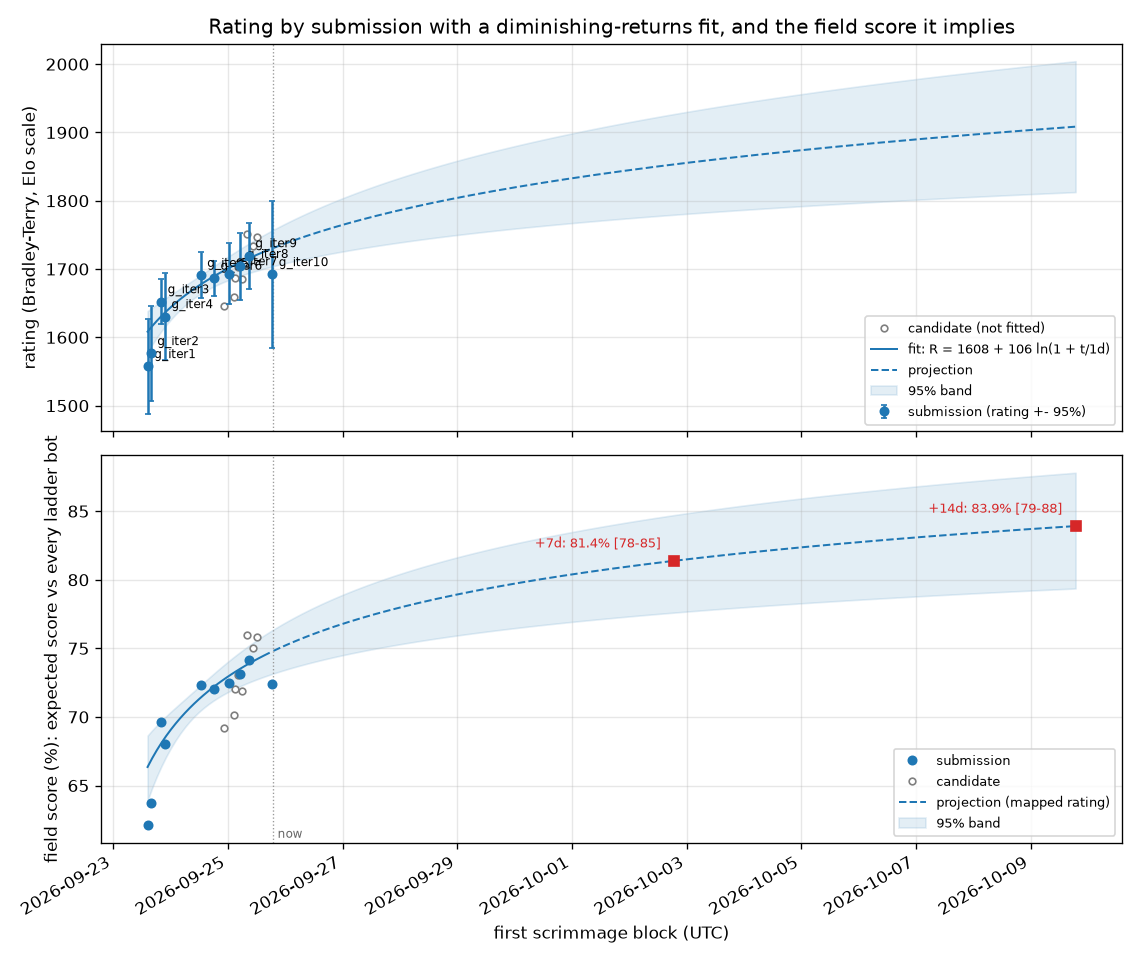
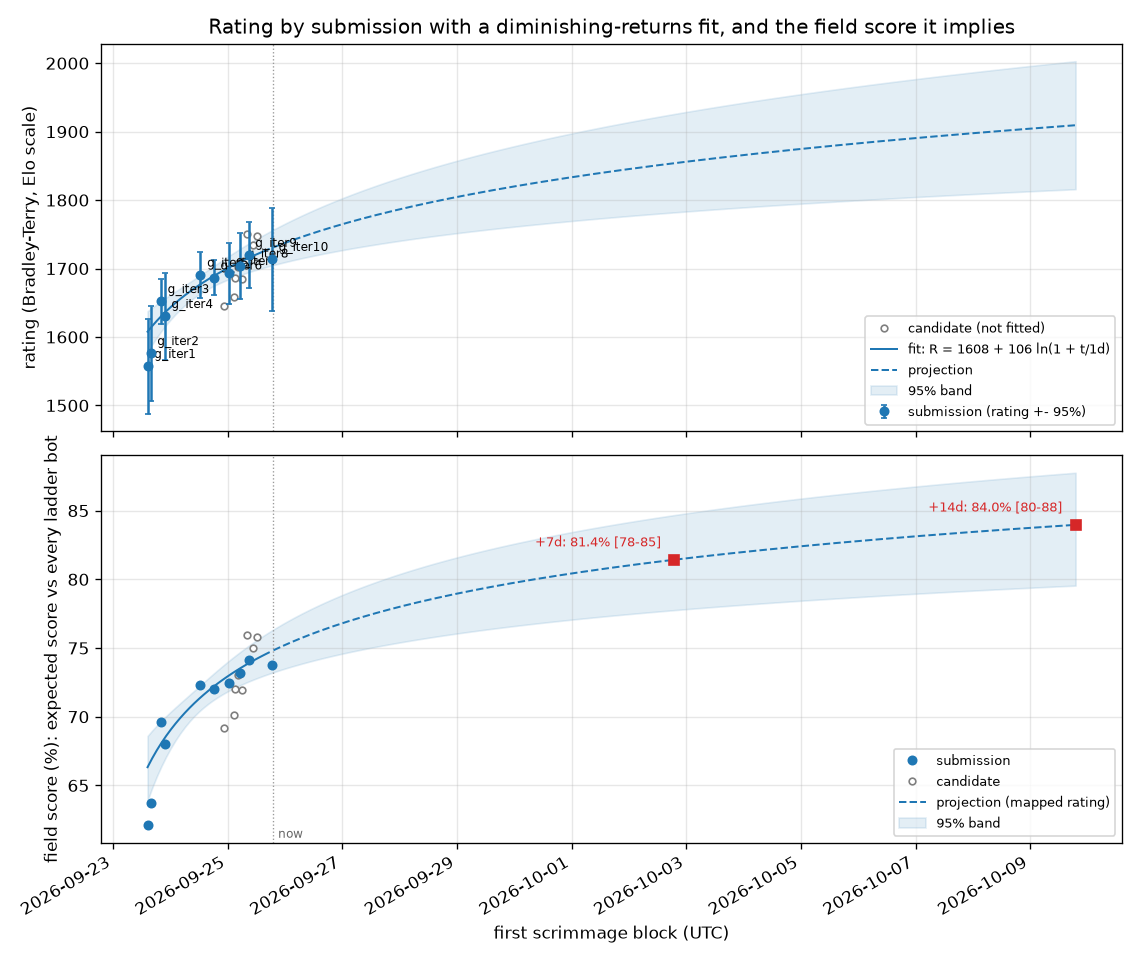
Submission block 20260925-183928-scrim-g_iter10 posted (g_iter10)
Claude-Session: https://claude.ai/code/session_015tNyF5ucwWW1mudpEQTT25

diff --git a/progress/ONSET.md b/progress/ONSET.md
@@ -1,6 +1,6 @@
 # Which metric starts predicting the result first
 
-43 games, 15 wins. Noise floor about 0.30; a correlation inside that band is not evidence.
+45 games, 20 wins. Noise floor about 0.30; a correlation inside that band is not evidence.
 
 Every metric is oriented so **higher is better for us**, so a positive correlation always means
 "this being better goes with winning". `~avg` is the running mean over all rounds so far rather than
@@ -12,46 +12,46 @@ See `progress/METRICS.md` for how each quantity is computed.
 
 | onset | anti | metric | peak corr | r100 | r200 | r300 | r400 | r600 | r900 |
 |---|---|---|---|---|---|---|---|---|---|
-| r50 | - | miners (us-them) | +0.41 | +0.29 | +0.31 | +0.31 | +0.20 | +0.32 | +0.39 |
-| r50 | - | miners (us-them) ~avg | +0.41 | +0.39 | +0.36 | +0.40 | +0.36 | +0.36 | +0.38 |
-| r50 | - | mines (us-them) | +0.59 | +0.59 | +0.56 | +0.46 | +0.44 | +0.51 | +0.52 |
-| r50 | - | mines (us-them) ~avg | +0.57 | +0.56 | +0.57 | +0.54 | +0.50 | +0.52 | +0.53 |
-| r50 | - | robots (us-them) | +0.62 | +0.49 | +0.46 | +0.38 | +0.41 | +0.60 | +0.52 |
-| r50 | - | robots (us-them) ~avg | +0.61 | +0.51 | +0.51 | +0.48 | +0.45 | +0.57 | +0.60 |
-| r50 | - | spawned (us-them) | +0.63 | +0.49 | +0.47 | +0.43 | +0.43 | +0.62 | +0.56 |
-| r50 | - | spawned (us-them) ~avg | +0.63 | +0.51 | +0.52 | +0.50 | +0.48 | +0.59 | +0.63 |
-| r50 | - | units (us-them) | +0.65 | +0.38 | +0.35 | +0.27 | +0.28 | +0.53 | +0.58 |
-| r50 | - | units (us-them) ~avg | +0.63 | +0.43 | +0.42 | +0.36 | +0.32 | +0.47 | +0.63 |
-| r50 | - | worth (us-them) | +0.56 | +0.55 | +0.54 | +0.46 | +0.46 | +0.55 | +0.43 |
-| r50 | - | worth (us-them) ~avg | +0.57 | +0.53 | +0.57 | +0.53 | +0.50 | +0.54 | +0.51 |
-| r100 | - | drones (us-them) ~avg | +0.34 | +0.31 | +0.34 | +0.31 | +0.28 | +0.25 | +0.27 |
-| r150 | - | pickups (us-them) ~avg | +0.39 | +0.19 | +0.32 | +0.35 | +0.37 | +0.35 | +0.39 |
-| r200 | - | drones (us-them) | +0.31 | +0.29 | +0.31 | +0.26 | +0.19 | +0.13 | +0.29 |
-| r250 | - | moves (us-them) | +0.42 | -0.12 | +0.17 | +0.37 | +0.33 | +0.40 | +0.42 |
-| r250 | - | pickups (us-them) | +0.37 | +0.19 | +0.29 | +0.37 | +0.37 | +0.29 | +0.37 |
-| r350 | - | moves (us-them) ~avg | +0.42 | -0.17 | +0.07 | +0.29 | +0.33 | +0.35 | +0.41 |
-| r350 | - | vaporators (us-them) | +0.45 | +0.23 | +0.19 | +0.28 | +0.32 | +0.45 | +0.30 |
-| r450 | - | landscapers (us-them) | +0.60 | +0.09 | +0.17 | +0.10 | +0.21 | +0.47 | +0.59 |
-| r450 | - | vaporators (us-them) ~avg | +0.42 | +0.23 | +0.16 | +0.23 | +0.28 | +0.41 | +0.36 |
-| r500 | - | cov (us-them) | +0.38 | -0.23 | -0.01 | +0.23 | +0.25 | +0.37 | +0.34 |
-| r500 | - | cov (us-them) ~avg | +0.38 | -0.22 | -0.10 | +0.05 | +0.14 | +0.38 | +0.36 |
-| r550 | - | netguns (us-them) | +0.39 | . | +0.11 | +0.22 | +0.26 | +0.39 | +0.32 |
-| r550 | - | netguns (us-them) ~avg | +0.38 | . | +0.11 | +0.18 | +0.24 | +0.35 | +0.36 |
-| r600 | - | landscapers (us-them) ~avg | +0.62 | +0.09 | +0.20 | +0.12 | +0.15 | +0.34 | +0.61 |
-| r700 | - | digs (us-them) | +0.57 | +0.22 | +0.19 | +0.09 | +0.08 | +0.19 | +0.47 |
-| r700 | - | dirtDeps (us-them) | +0.56 | +0.18 | +0.13 | +0.06 | +0.05 | +0.17 | +0.45 |
-| r800 | - | digs (us-them) ~avg | +0.49 | +0.22 | +0.21 | +0.11 | +0.09 | +0.12 | +0.37 |
-| r850 | - | dirtDeps (us-them) ~avg | +0.47 | +0.18 | +0.15 | +0.06 | +0.05 | +0.09 | +0.34 |
-| - | - | aba (us-them) [inverted] | +0.26 | +0.15 | +0.17 | +0.03 | +0.18 | +0.16 | +0.03 |
-| - | - | aba (us-them) [inverted] ~avg | +0.21 | +0.15 | +0.20 | +0.14 | +0.16 | +0.17 | +0.10 |
-| - | - | died (us-them) [inverted] | +0.17 | . | +0.01 | +0.10 | +0.17 | +0.10 | -0.06 |
-| - | - | died (us-them) [inverted] ~avg | +0.15 | . | -0.03 | +0.07 | +0.12 | +0.14 | +0.07 |
+| r100 | - | mines (us-them) | +0.46 | +0.39 | +0.30 | +0.31 | +0.44 | +0.43 | +0.37 |
+| r100 | - | mines (us-them) ~avg | +0.43 | +0.38 | +0.33 | +0.30 | +0.37 | +0.43 | +0.40 |
+| r100 | - | worth (us-them) | +0.48 | +0.38 | +0.28 | +0.32 | +0.45 | +0.47 | +0.46 |
+| r100 | - | worth (us-them) ~avg | +0.47 | +0.40 | +0.35 | +0.32 | +0.39 | +0.46 | +0.47 |
+| r350 | - | robots (us-them) | +0.53 | +0.21 | +0.07 | +0.24 | +0.38 | +0.44 | +0.53 |
+| r350 | - | spawned (us-them) | +0.50 | +0.21 | +0.06 | +0.19 | +0.35 | +0.45 | +0.50 |
+| r400 | - | landscapers (us-them) | +0.61 | -0.02 | +0.02 | +0.08 | +0.36 | +0.43 | +0.53 |
+| r400 | - | robots (us-them) ~avg | +0.50 | +0.28 | +0.19 | +0.20 | +0.31 | +0.44 | +0.48 |
+| r450 | - | spawned (us-them) ~avg | +0.48 | +0.28 | +0.19 | +0.17 | +0.28 | +0.44 | +0.47 |
+| r450 | - | units (us-them) | +0.56 | +0.13 | +0.04 | +0.13 | +0.28 | +0.34 | +0.50 |
+| r450 | - | vaporators (us-them) | +0.40 | -0.01 | +0.06 | +0.22 | +0.27 | +0.37 | +0.36 |
+| r500 | - | landscapers (us-them) ~avg | +0.60 | -0.02 | +0.02 | -0.01 | +0.16 | +0.45 | +0.54 |
+| r550 | - | digs (us-them) | +0.59 | -0.16 | +0.20 | +0.20 | +0.22 | +0.39 | +0.49 |
+| r550 | - | dirtDeps (us-them) | +0.58 | -0.14 | +0.17 | +0.17 | +0.21 | +0.38 | +0.48 |
+| r550 | - | netguns (us-them) | +0.38 | . | +0.04 | +0.02 | +0.02 | +0.36 | +0.31 |
+| r550 | - | units (us-them) ~avg | +0.48 | +0.23 | +0.15 | +0.12 | +0.20 | +0.33 | +0.41 |
+| r550 | - | vaporators (us-them) ~avg | +0.40 | -0.01 | +0.02 | +0.12 | +0.18 | +0.35 | +0.40 |
+| r650 | - | digs (us-them) ~avg | +0.53 | -0.17 | +0.16 | +0.18 | +0.20 | +0.29 | +0.43 |
+| r650 | - | dirtDeps (us-them) ~avg | +0.52 | -0.16 | +0.14 | +0.15 | +0.18 | +0.27 | +0.42 |
+| r1150 | - | moves (us-them) | +0.32 | -0.08 | -0.03 | -0.02 | +0.03 | +0.14 | +0.23 |
+| - | - | aba (us-them) [inverted] | -0.22 | +0.06 | +0.11 | +0.02 | -0.02 | -0.14 | -0.22 |
+| - | - | aba (us-them) [inverted] ~avg | +0.21 | +0.21 | +0.13 | +0.12 | +0.07 | -0.05 | -0.14 |
+| - | - | cov (us-them) | -0.30 | -0.25 | -0.25 | -0.09 | -0.04 | +0.00 | -0.04 |
+| - | - | cov (us-them) ~avg | -0.28 | -0.24 | -0.27 | -0.16 | -0.11 | -0.07 | -0.07 |
+| - | - | died (us-them) [inverted] | +0.24 | . | +0.15 | +0.15 | +0.20 | +0.17 | +0.24 |
+| - | - | died (us-them) [inverted] ~avg | +0.22 | . | +0.14 | +0.17 | +0.18 | +0.15 | +0.20 |
+| - | - | drones (us-them) | +0.30 | +0.14 | +0.10 | +0.16 | +0.18 | +0.26 | +0.24 |
+| - | - | drones (us-them) ~avg | +0.23 | +0.16 | +0.16 | +0.19 | +0.18 | +0.21 | +0.21 |
 | - | - | drowned (us-them) [inverted] | . | . | . | . | . | . | . |
 | - | - | drowned (us-them) [inverted] ~avg | . | . | . | . | . | . | . |
-| - | - | hqBuried (us-them) [inverted] | -0.22 | +0.00 | . | . | . | +0.11 | +0.11 |
-| - | - | hqBuried (us-them) [inverted] ~avg | +0.14 | +0.00 | +0.05 | -0.00 | -0.06 | +0.02 | +0.13 |
-| - | - | soup (us-them) | +0.23 | -0.13 | +0.23 | +0.16 | +0.05 | +0.02 | -0.09 |
-| - | - | soup (us-them) ~avg | -0.17 | -0.17 | +0.09 | +0.14 | +0.11 | +0.03 | -0.06 |
+| - | - | hqBuried (us-them) [inverted] | +0.13 | +0.12 | +0.13 | . | . | . | . |
+| - | - | hqBuried (us-them) [inverted] ~avg | +0.21 | +0.12 | +0.21 | +0.13 | +0.13 | +0.13 | +0.14 |
+| - | - | miners (us-them) | +0.28 | +0.17 | -0.01 | -0.00 | -0.10 | -0.05 | +0.28 |
+| - | - | miners (us-them) ~avg | +0.29 | +0.29 | +0.19 | +0.18 | +0.04 | -0.06 | +0.06 |
+| - | - | moves (us-them) ~avg | +0.22 | -0.13 | -0.05 | -0.02 | -0.02 | +0.06 | +0.15 |
+| - | - | netguns (us-them) ~avg | +0.28 | . | +0.08 | +0.04 | +0.03 | +0.15 | +0.28 |
+| - | - | pickups (us-them) | +0.32 | +0.08 | +0.23 | +0.32 | +0.15 | +0.11 | +0.12 |
+| - | - | pickups (us-them) ~avg | +0.27 | +0.08 | +0.18 | +0.26 | +0.24 | +0.14 | +0.11 |
+| - | - | soup (us-them) | +0.21 | +0.10 | +0.20 | +0.02 | -0.01 | +0.01 | +0.11 |
+| - | - | soup (us-them) ~avg | +0.21 | +0.11 | +0.20 | +0.21 | +0.17 | -0.02 | +0.08 |
 
 **Reading it.** Earliest onset is the first place to look: temporal precedence is the one causal hint a
 correlation can honestly give. Late-onset metrics are usually the scoreboard rather than the cause -- by then

diff --git a/progress/ELO.md b/progress/ELO.md
@@ -1,58 +1,58 @@
 # Ladder
 
-5129 scrimmages (ours only), 4605 distinct (a repeated pairing with the same seed replays the same game and counts once), rated by a batch Bradley-Terry fit on the Elo scale (`tools/elolib.py`); each of our builds is its own player. 65 of 65 ladder bots met.
+5177 scrimmages (ours only), 4653 distinct (a repeated pairing with the same seed replays the same game and counts once), rated by a batch Bradley-Terry fit on the Elo scale (`tools/elolib.py`); each of our builds is its own player. 65 of 65 ladder bots met.
 
 Our builds (rating +- 95%; field score = expected score against every ladder bot, one game each):
 
 | build | rating | rank | games | record | field score |
 |---|---|---|---|---|---|
-| cand43b | 1751 +- 79 | 15 of 84 | 96 | 64-32 | 76.0% |
-| cand49b | 1747 +- 74 | 16 of 84 | 96 | 42-54 | 75.8% |
+| cand43b | 1750 +- 79 | 14 of 84 | 96 | 64-32 | 76.0% |
+| cand49b | 1747 +- 75 | 16 of 84 | 96 | 42-54 | 75.8% |
 | cand47d | 1734 +- 53 | 17 of 84 | 192 | 73-119 | 75.0% |
-| g_iter9 | 1720 +- 48 | 19 of 84 | 240 | 78-162 | 74.1% |
-| g_iter8 | 1704 +- 49 | 20 of 84 | 240 | 108-132 | 73.1% |
-| cand41b | 1702 +- 76 | 21 of 84 | 96 | 51-45 | 73.0% |
-| g_iter7 | 1693 +- 44 | 22 of 84 | 288 | 135-153 | 72.5% |
-| g_iter10 | 1692 +- 107 | 23 of 84 | 48 | 18-30 | 72.4% |
-| g_iter5 | 1691 +- 34 | 24 of 84 | 618 | 329-289 | 72.3% |
-| g_iter6 | 1687 +- 26 | 25 of 84 | 886 | 450-436 | 72.0% |
+| g_iter9 | 1719 +- 48 | 19 of 84 | 240 | 78-162 | 74.1% |
+| g_iter10 | 1713 +- 76 | 20 of 84 | 96 | 38-58 | 73.8% |
+| g_iter8 | 1704 +- 49 | 21 of 84 | 240 | 108-132 | 73.2% |
+| cand41b | 1702 +- 76 | 22 of 84 | 96 | 51-45 | 73.0% |
+| g_iter7 | 1693 +- 44 | 23 of 84 | 288 | 135-153 | 72.4% |
+| g_iter5 | 1690 +- 34 | 24 of 84 | 618 | 329-289 | 72.3% |
+| g_iter6 | 1686 +- 26 | 25 of 84 | 886 | 450-436 | 72.0% |
 | cand40c | 1686 +- 77 | 26 of 84 | 96 | 57-39 | 72.0% |
 | cand42c | 1685 +- 76 | 27 of 84 | 96 | 49-47 | 71.9% |
 | iter24 | 1660 +- 129 | 28 of 84 | 46 | 11-35 | 70.2% |
 | cand37 | 1659 +- 76 | 29 of 84 | 96 | 46-50 | 70.1% |
-| g_iter3 | 1652 +- 33 | 30 of 84 | 796 | 167-629 | 69.7% |
+| g_iter3 | 1652 +- 33 | 30 of 84 | 796 | 167-629 | 69.6% |
 | cand31 | 1646 +- 76 | 31 of 84 | 96 | 52-44 | 69.2% |
 | g_iter4 | 1630 +- 64 | 32 of 84 | 217 | 43-174 | 68.1% |
-| g_iter2 | 1576 +- 69 | 33 of 84 | 192 | 44-148 | 63.8% |
+| g_iter2 | 1576 +- 69 | 33 of 84 | 192 | 44-148 | 63.7% |
 | g_iter1 | 1557 +- 69 | 34 of 84 | 170 | 95-75 | 62.1% |
 
 | rank | player | rating | +- 95% | games | W-L |
 |---|---|---|---|---|---|
 | 1 | awesomelemonade.citricsky | 2255 | 200 | 103 | 101-2 |
 | 2 | uvafan.v14_final_bot | 2246 | 200 | 98 | 96-2 |
-| 3 | AngusRitossa.newbot | 2187 | 174 | 95 | 92-3 |
+| 3 | AngusRitossa.newbot | 2186 | 174 | 95 | 92-3 |
 | 4 | StoneT2000.FinalChowBotStable | 2002 | 212 | 21 | 19-2 |
 | 5 | rzhan11.quals_bot | 1996 | 115 | 86 | 77-9 |
 | 6 | battlecode20-team4.finalbota | 1993 | 65 | 226 | 195-31 |
 | 7 | IvanGeffner.finalbota | 1992 | 105 | 101 | 90-11 |
-| 8 | ronniesong0809.finalbota | 1986 | 105 | 97 | 86-11 |
-| 9 | winkelmantanner.tannerplayer | 1955 | 60 | 224 | 186-38 |
-| 10 | mvpatel2000.qual | 1931 | 59 | 211 | 171-40 |
-| 11 | EmaPajic.Qualifications | 1924 | 51 | 275 | 220-55 |
-| 12 | poortho.stable_seeding_bot | 1825 | 35 | 443 | 306-137 |
-| 13 | laurenschneider.pdx_team_one | 1753 | 32 | 458 | 273-185 |
-| 14 | cormackikkert.whyPermutator | 1752 | 33 | 451 | 268-183 |
-| 15 | **us:cand43b** | 1751 | 79 | 96 | 64-32 |
-| 16 | **us:cand49b** | 1747 | 74 | 96 | 42-54 |
+| 8 | ronniesong0809.finalbota | 1985 | 105 | 97 | 86-11 |
+| 9 | winkelmantanner.tannerplayer | 1957 | 59 | 230 | 191-39 |
+| 10 | mvpatel2000.qual | 1928 | 58 | 217 | 175-42 |
+| 11 | EmaPajic.Qualifications | 1925 | 51 | 281 | 225-56 |
+| 12 | poortho.stable_seeding_bot | 1827 | 35 | 449 | 311-138 |
+| 13 | laurenschneider.pdx_team_one | 1754 | 32 | 464 | 277-187 |
+| 14 | **us:cand43b** | 1750 | 79 | 96 | 64-32 |
+| 15 | cormackikkert.whyPermutator | 1750 | 32 | 457 | 270-187 |
+| 16 | **us:cand49b** | 1747 | 75 | 96 | 42-54 |
 | 17 | **us:cand47d** | 1734 | 53 | 192 | 73-119 |
-| 18 | benzyx.seeding | 1731 | 32 | 454 | 257-197 |
-| 19 | **us:g_iter9** | 1720 | 48 | 240 | 78-162 |
-| 20 | **us:g_iter8** | 1704 | 49 | 240 | 108-132 |
-| 21 | **us:cand41b** | 1702 | 76 | 96 | 51-45 |
-| 22 | **us:g_iter7** | 1693 | 44 | 288 | 135-153 |
-| 23 | **us:g_iter10** | 1692 | 107 | 48 | 18-30 |
-| 24 | **us:g_iter5** | 1691 | 34 | 618 | 329-289 |
-| 25 | **us:g_iter6** | 1687 | 26 | 886 | 450-436 |
+| 18 | benzyx.seeding | 1729 | 32 | 460 | 259-201 |
+| 19 | **us:g_iter9** | 1719 | 48 | 240 | 78-162 |
+| 20 | **us:g_iter10** | 1713 | 76 | 96 | 38-58 |
+| 21 | **us:g_iter8** | 1704 | 49 | 240 | 108-132 |
+| 22 | **us:cand41b** | 1702 | 76 | 96 | 51-45 |
+| 23 | **us:g_iter7** | 1693 | 44 | 288 | 135-153 |
+| 24 | **us:g_iter5** | 1690 | 34 | 618 | 329-289 |
+| 25 | **us:g_iter6** | 1686 | 26 | 886 | 450-436 |
 | 26 | **us:cand40c** | 1686 | 77 | 96 | 57-39 |
 | 27 | **us:cand42c** | 1685 | 76 | 96 | 49-47 |
 | 28 | **us:iter24** | 1660 | 129 | 46 | 11-35 |
@@ -62,7 +62,7 @@ Our builds (rating +- 95%; field score = expected score against every ladder bot
 | 32 | **us:g_iter4** | 1630 | 64 | 217 | 43-174 |
 | 33 | **us:g_iter2** | 1576 | 69 | 192 | 44-148 |
 | 34 | **us:g_iter1** | 1557 | 69 | 170 | 95-75 |
-| 35 | wpine215.stardustv2 | 1512 | 38 | 407 | 112-295 |
+| 35 | wpine215.stardustv2 | 1511 | 38 | 413 | 113-300 |
 | 36 | mhahn2003.nonrush | 1465 | 52 | 250 | 56-194 |
 | 37 | eggag32.BrutalPigeonBot | 1464 | 59 | 194 | 42-152 |
 | 38 | ARognes.FinalSubmission | 1423 | 147 | 31 | 6-25 |
@@ -70,14 +70,14 @@ Our builds (rating +- 95%; field score = expected score against every ladder bot
 | 40 | TeamSerpentine.noodleBot | 1413 | 146 | 32 | 6-26 |
 | 41 | VinayaBhat.team10pdx | 1401 | 233 | 9 | 2-7 |
 | 42 | WilliamYue37.Player1 | 1394 | 142 | 40 | 6-34 |
-| 43 | jenlz.bustedJulianbot | 1388 | 275 | 8 | 1-7 |
+| 43 | jenlz.bustedJulianbot | 1387 | 275 | 8 | 1-7 |
 | 44 | yaonam.Robot_1 | 1386 | 156 | 33 | 5-28 |
 | 45 | Tim-gubski.AngryWaffleMaker | 1376 | 155 | 32 | 5-27 |
-| 46 | opheez.landscapers | 1372 | 271 | 9 | 1-8 |
-| 47 | ovimura.welovesoup | 1372 | 271 | 9 | 1-8 |
-| 48 | rsandzimier.SandSibs_seeding | 1372 | 271 | 9 | 1-8 |
-| 49 | thissop.alpha | 1372 | 271 | 9 | 1-8 |
-| 50 | cosimogonnelli.Team3player | 1350 | 276 | 7 | 1-6 |
+| 46 | opheez.landscapers | 1371 | 271 | 9 | 1-8 |
+| 47 | ovimura.welovesoup | 1371 | 271 | 9 | 1-8 |
+| 48 | rsandzimier.SandSibs_seeding | 1371 | 271 | 9 | 1-8 |
+| 49 | thissop.alpha | 1371 | 271 | 9 | 1-8 |
+| 50 | cosimogonnelli.Team3player | 1349 | 276 | 7 | 1-6 |
 | 51 | LucianCov.ourRobot | 1334 | 387 | 3 | 0-3 |
 | 52 | MrHoseongLee.Neptune_v3 | 1334 | 387 | 3 | 0-3 |
 | 53 | Phrancium.Frankplayer1 | 1334 | 387 | 3 | 0-3 |

diff --git a/BENCHMARK.md b/BENCHMARK.md
@@ -175,7 +175,7 @@ build with at least 200 recorded games: a candidate's short ladder arm never re-
 | `benzyx.tortuga` | benzyx_bc20-waterloo (05df2e7) | - | - | untested |  |
 | `charboltron.master_player` | charboltron_pdx_battlecode_2020_team_11 (f78f1e3) | - | - | untested |  |
 | `charboltron.team11newbot` | charboltron_pdx_battlecode_2020_team_11 (f78f1e3) | 100 | 2 | peer(>90 once) | 100 100 |
-| `cormackikkert.whyPermutator` | cormackikkert_battlecode2020 (4d230c4) | 50 | 30 | peer | 25 17 38 40 25 42 45 25 28 25 42 33 47 58 42 50 38 75 50 |
+| `cormackikkert.whyPermutator` | cormackikkert_battlecode2020 (4d230c4) | 50 | 30 | peer | 25 17 38 40 25 42 45 25 28 25 42 33 47 58 42 50 38 75 58 |
 | `cormackikkert.whyPermutatorOld` | cormackikkert_battlecode2020 (4d230c4) | - | - | untested |  |
 | `cosimogonnelli.Team3player` | cosimogonnelli_CS454-554-SE (d7dc657) | 100 | 2 | peer(>90 once) | 80 100 |
 | `cs454-w20-team3.oldbot` | cs454-w20-team3_team3-bot (502c334) | - | - | untested |  |
@@ -246,7 +246,7 @@ build with at least 200 recorded games: a candidate's short ladder arm never re-
 | `mvpatel2000.oldhades` | mvpatel2000_Battlecode2020 (554943e) | - | - | untested |  |
 | `mvpatel2000.poseidon` | mvpatel2000_Battlecode2020 (554943e) | - | - | untested |  |
 | `mvpatel2000.quail` | mvpatel2000_Battlecode2020 (554943e) | - | - | untested |  |
-| `mvpatel2000.qual` | mvpatel2000_Battlecode2020 (554943e) | 20 | 30 | target | 0 8 24 13 67 12 0 12 20 46 8 17 |
+| `mvpatel2000.qual` | mvpatel2000_Battlecode2020 (554943e) | 20 | 30 | target | 0 8 24 13 67 12 0 12 20 46 8 25 |
 | `mvpatel2000.qualAttacc` | mvpatel2000_Battlecode2020 (554943e) | - | - | untested |  |
 | `mvpatel2000.qualNoAtacc` | mvpatel2000_Battlecode2020 (554943e) | - | - | untested |  |
 | `mvpatel2000.seeding` | mvpatel2000_Battlecode2020 (554943e) | - | - | untested |  |
@@ -280,7 +280,7 @@ build with at least 200 recorded games: a candidate's short ladder arm never re-
 | `poortho.rush` | poortho_battlecode-2020 (ebbd61e) | - | - | untested |  |
 | `poortho.rush_bot` | poortho_battlecode-2020 (ebbd61e) | - | - | untested |  |
 | `poortho.stable_miner1` | poortho_battlecode-2020 (ebbd61e) | - | - | untested |  |
-| `poortho.stable_seeding_bot` | poortho_battlecode-2020 (ebbd61e) | 37 | 30 | target | 0 17 27 31 0 30 31 50 39 33 25 33 33 17 42 37 33 17 33 |
+| `poortho.stable_seeding_bot` | poortho_battlecode-2020 (ebbd61e) | 37 | 30 | target | 0 17 27 31 0 30 31 50 39 33 25 33 33 17 42 37 33 17 25 |
 | `ps789.dennisTestPlayer` | ps789_AZBattlecode (f1d54ab) | - | - | untested |  |
 | `ps789.phillipTestPlayer` | ps789_AZBattlecode (f1d54ab) | - | - | untested |  |
 | `ronniesong0809.finalbota` | ronniesong0809_battlecode20-RADS (1cee065) | 0 | 11 | locked | 0 18 15 7 0 0 |
@@ -326,7 +326,7 @@ build with at least 200 recorded games: a candidate's short ladder arm never re-
 | `willBoyd8.droideka` | willBoyd8_BattleDroid (4b1d4ad) | - | - | untested |  |
 | `willBoyd8.empire` | willBoyd8_BattleDroid (4b1d4ad) | - | - | untested |  |
 | `willBoyd8.mouse` | willBoyd8_BattleDroid (4b1d4ad) | - | - | untested |  |
-| `winkelmantanner.tannerplayer` | winkelmantanner_battlecode2020_the-levee-builders (7f49f11) | 23 | 30 | target | 0 25 15 23 0 36 12 8 23 17 25 0 |
+| `winkelmantanner.tannerplayer` | winkelmantanner_battlecode2020_the-levee-builders (7f49f11) | 23 | 30 | target | 0 25 15 23 0 36 12 8 23 17 25 8 |
 | `wpine215.stardustv1` | wpine215_battlecode (d570d57) | - | - | untested |  |
 | `wpine215.stardustv2` | wpine215_battlecode (d570d57) | 87 | 30 | peer | 0 30 50 65 100 70 77 58 78 83 67 75 87 100 83 67 100 83 |
 | `yaonam.Robot_1` | yaonam_battlecode2020 (bb363f5) | 83 | 12 | peer | 62 100 83 100 |
